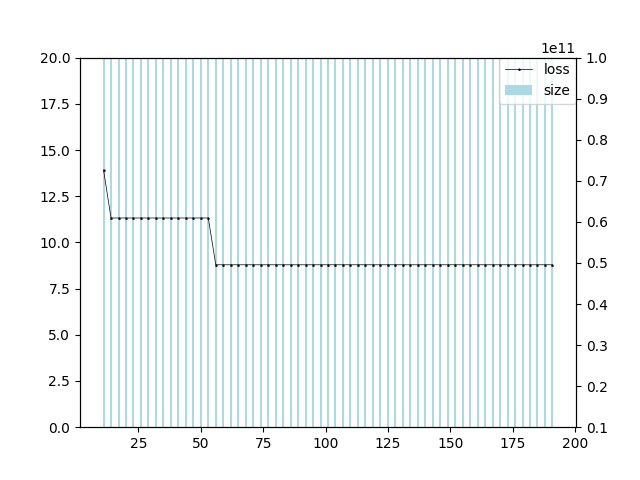
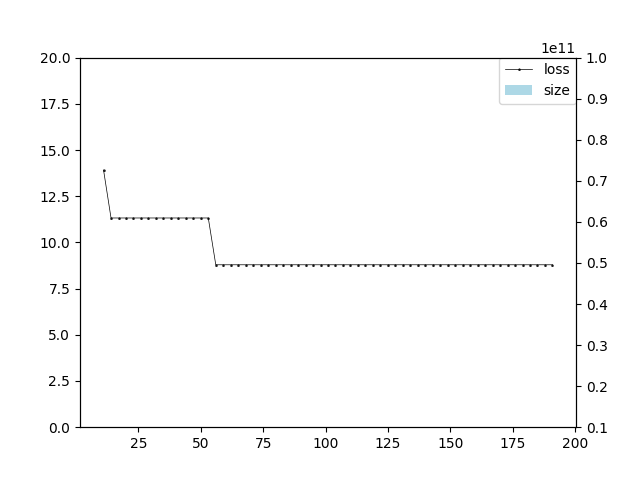
こんなもんでいいか

Changed region(s): [[0.1562, 0.125, 0.875, 0.9062]]

diff --git a/analytics/analytics_main.py b/analytics/analytics_main.py
@@ -16,7 +16,7 @@ class Analytics:
         fig_cgp, ax1 = plt.subplots(1,1)
         ax2 = ax1.twinx()
         ax1.plot(df["num_eval"],df["evaluation"],linestyle="solid",lw=0.5,ms=1,color="k",marker="^",label="loss")
-        ax1.bar(df["num_eval"],df["size"],color="lightblue",label="size")
+        ax2.bar(df["num_eval"],df["size"],color="lightblue",label="size")
         ax1.set_ylim(0,20)
         ax2.set_ylim(1e10,1e11)
         handler1, label1 = ax1.get_legend_handles_labels()
@@ -70,3 +70,13 @@ class Analytics:
     
     def analytics_log_surrogate(self,df,save_path):
         print('_log_surrogate analytics'.format(crayons.red('red')))
+        fig_sur = plt.figure(figsize=(10,8))
+        fig_sur, ax1 = plt.subplots(1,1)
+        ax2 = ax1.twinx()
+        ax1.plot(df["generation"],df["kendalltau"],lw=0.5,ms=1,color="r",marker="^",label="kendalltau")
+        ax2.plot(df["generation"],df["rank_dif"],lw=0.5,ms=1,color="b",marker="^",label="rank_dif")
+        handler1, label1 = ax1.get_legend_handles_labels()
+        handler2, label2 = ax2.get_legend_handles_labels()
+        ax1.legend(handler1+handler2,label1+label2,borderaxespad=0)
+        #ax1.grid(True)
+        fig_sur.savefig(save_path+"/_log_surrogate.png")

diff --git a/exp_main.py b/exp_main.py
@@ -49,7 +49,7 @@ if __name__ == '__main__':
                 df = pd.read_csv(i_path + "/trial_" + str(trial) + "/_log_local_refinement_best.csv")
                 ana_main.analytics_log_local_refinement_best(df,i_path + "/trial_" + str(trial))
                 df = pd.read_csv(i_path + "/trial_" + str(trial) + "/_log_surrogate.csv")
-                
+                ana_main.analytics_log_surrogate(df,i_path + "/trial_" + str(trial))
 
 
     for trial in range(cnf.num_trial):  
